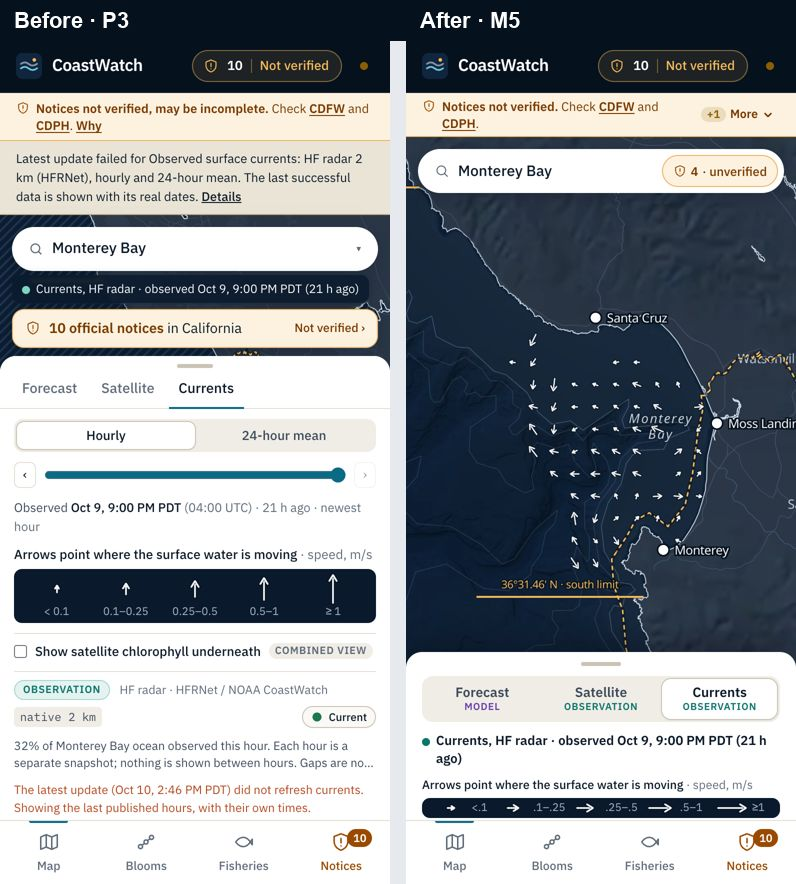
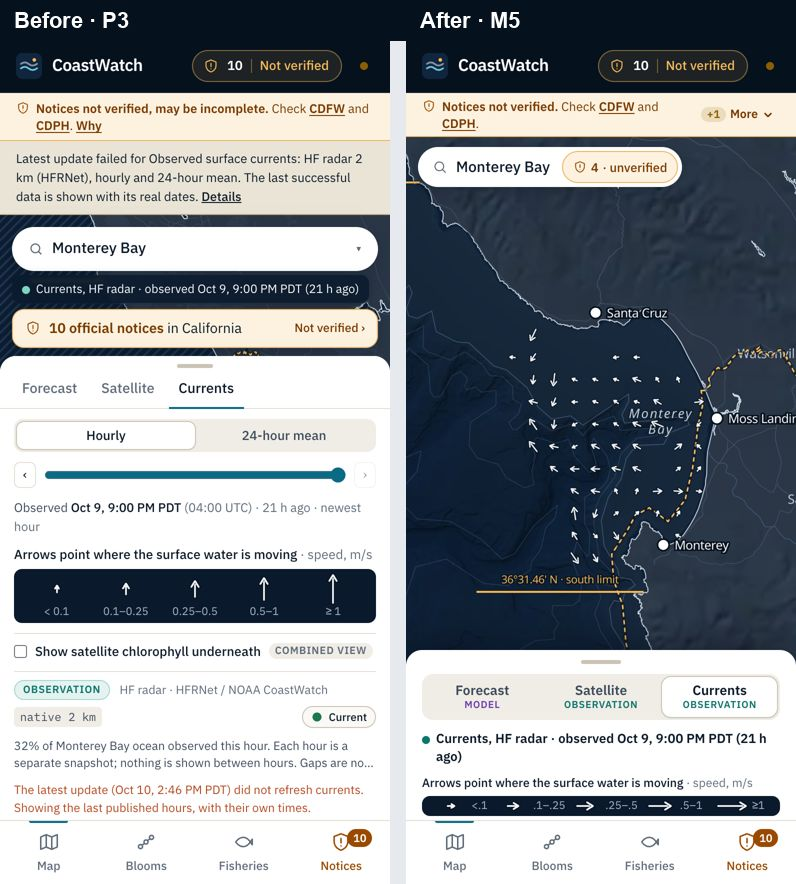
fix(web): phone map margin: the sheet peek fits its legend; content-width place button
CI (Linux fonts) measured the phone at 53.8 % of the screen showing map,
below the 55 % target that passed locally at 56.1 %. The peek is now just
tall enough for the layer tabs, what is shown and the legend's ramp and
numbers (136-184 px, growing when the stamp wraps), and the place button is
only as wide as its text. 60.1 / 57.8 / 57.8 % locally (forecast, satellite,
currents). Phone review images and the report updated.

diff --git a/coastwatch-web/src/components/LiveOceanMap.tsx b/coastwatch-web/src/components/LiveOceanMap.tsx
@@ -230,14 +230,32 @@ export function LiveOceanMap({ manifest, ports, portsError, official, officialEr
     ro.observe(el);
     return () => ro.disconnect();
   }, []);
-  // phone sheet: the peek keeps most of the map visible (≥ 55 % of the screen at 390 × 844)
+  // phone sheet: the peek is just tall enough for the layer tabs, what is shown and the whole
+  // legend (it grows when the stamp wraps), so most of the screen stays map (≥ 55 % at 390 × 844)
+  const [peekH, setPeekH] = useState(152);
+  const legendBox = useRef<HTMLDivElement | null>(null);
+  useEffect(() => {
+    const box = legendBox.current;
+    if (!box || typeof ResizeObserver === "undefined") return;
+    const fit = () => {
+      // the legend's ramp (or arrow key) and its numbers; notes below it show on expanding
+      const lg = box.querySelector("[data-peek=end]") ?? box.querySelector("[data-testid$=-legend]");
+      if (!lg) return;
+      const need = 24 + (lg.getBoundingClientRect().bottom - box.getBoundingClientRect().top) + 4; // handle + content + a hair of margin
+      setPeekH(Math.round(Math.min(184, Math.max(136, need))));
+    };
+    fit();
+    const ro = new ResizeObserver(fit);
+    ro.observe(box);
+    return () => ro.disconnect();
+  }, [wide, detailOpen, group]);
   const snaps: SnapPoint[] = detailOpen
     ? [
         { id: "peek", height: 196 },
         { id: "full", height: Math.max(260, mapH - 12) },
       ]
     : [
-        { id: "peek", height: 168 },
+        { id: "peek", height: peekH },
         { id: "half", height: Math.round(mapH * 0.58) },
         { id: "full", height: Math.max(260, mapH - 12) },
       ];
@@ -271,7 +289,7 @@ export function LiveOceanMap({ manifest, ports, portsError, official, officialEr
       const z = (q: typeof beside) => m.cameraForBounds(b, { padding: q })?.zoom ?? 0;
       return z(above) > z(beside) ? above : beside;
     }
-    return { top: 72, bottom: sheetH + 16, left: 16, right: 16 };
+    return { top: 64, bottom: sheetH + 16, left: 16, right: 16 };
   }, [detailOpen, placesOpen, regions, region, sheetH]);
 
   useEffect(() => {
@@ -517,7 +535,7 @@ export function LiveOceanMap({ manifest, ports, portsError, official, officialEr
       selectedPort={port}
       inspect={inspect}
       initialBounds={initialRegion.bounds}
-      initialPadding={wide ? { top: 64, bottom: 28, left: 660, right: 28 } : { top: 72, bottom: 184, left: 16, right: 16 }}
+      initialPadding={wide ? { top: 64, bottom: 28, left: 660, right: 28 } : { top: 64, bottom: 168, left: 16, right: 16 }}
       cellEdges={group === "forecast" && edges && edges.id === forecastLayer?.layer_id ? edges.fc : null}
       fade={fade}
       onHover={wide && canHover ? onHover : undefined}
@@ -591,11 +609,11 @@ export function LiveOceanMap({ manifest, ports, portsError, official, officialEr
           <button
             onClick={() => setNavOpen(true)}
             data-testid="place-button"
-            className="theme-paper absolute left-3 right-3 top-3 z-10 flex h-11 items-center gap-2 rounded-full bg-surface pl-4 pr-1.5 text-left text-[15px] font-medium text-ink shadow-[0_6px_20px_rgba(6,17,30,0.3)]"
+            className="theme-paper absolute left-3 top-2.5 z-10 flex h-10 max-w-[calc(100%-24px)] items-center gap-2 rounded-full bg-surface pl-3.5 pr-1 text-left text-[15px] font-medium text-ink shadow-[0_6px_20px_rgba(6,17,30,0.3)]"
           >
             <Icon name="search" className="h-4 w-4 text-ink-3" />
-            <span className="min-w-0 flex-1 truncate">{port != null ? (intel?.display_name ?? "Port") : regionLabel}</span>
-            <span data-testid="mobile-official" className="flex h-8 items-center gap-1 rounded-full border border-official-line bg-official-bg px-2.5 text-[12.5px] font-semibold text-official-ink">
+            <span className="min-w-0 truncate pr-1">{port != null ? (intel?.display_name ?? "Port") : regionLabel}</span>
+            <span data-testid="mobile-official" className="flex h-8 shrink-0 items-center gap-1 rounded-full border border-official-line bg-official-bg px-2.5 text-[12.5px] font-semibold text-official-ink">
               <Icon name="shield" className="h-3.5 w-3.5 text-official" />
               {region !== STATEWIDE.id && regionNotices != null ? regionNotices : (activeCount ?? "?")}
               <span className="sr-only"> official notices{region !== STATEWIDE.id ? ` may apply in ${regionLabel}` : " in California"},</span>
@@ -628,7 +646,7 @@ export function LiveOceanMap({ manifest, ports, portsError, official, officialEr
               </MobileSheet>
             ) : (
               <MobileSheet key="explore" snaps={snaps} snap={sheetSnap} onSnap={setSheetSnap} label="Map layers" header={null}>
-                <div data-testid="mobile-legend">
+                <div data-testid="mobile-legend" ref={legendBox}>
                   <LayerDock {...dockProps} variant="sheet" expanded={sheetSnap !== "peek"} />
                 </div>
               </MobileSheet>

diff --git a/coastwatch-web/src/components/ui/ProbabilityLegend.tsx b/coastwatch-web/src/components/ui/ProbabilityLegend.tsx
@@ -25,7 +25,7 @@ export function ProbabilityLegend({ palette, threshold, compact = false }: { pal
   return (
     <figure data-testid="probability-legend" className={compact ? "space-y-0.5" : "space-y-1"} aria-label={`Legend: ${threshold ?? "probability"}, 0 to 100 percent${stepped ? " in 10-point display steps" : ""}`}>
       {threshold && <figcaption className={`font-medium leading-snug text-ink ${compact ? "text-[12px]" : "text-[13px] max-sm:text-[12px]"}`}>{threshold}</figcaption>}
-      <div className={compact ? "flex items-center gap-3" : ""}>
+      <div className={compact ? "flex items-center gap-3" : ""} data-peek="end">
         <div className="min-w-0 flex-1">
           <div className={`${compact ? "h-2" : "h-2.5"} rounded-[3px]`} style={{ background: gradientCss(palette) }} />
           <div className="relative h-3.5 text-[11px] text-ink-3 tabular" aria-hidden>
@@ -67,7 +67,7 @@ export function ChlorophyllLegend({ palette, compact = false }: { palette: Palet
       <figcaption className={`font-medium leading-snug text-ink ${compact ? "text-[12px]" : "text-[13px]"}`}>
         Chlorophyll-a <span className="font-normal text-ink-3">mg/m³ · log scale{compact ? "" : " · algae biomass, not toxin"}</span>
       </figcaption>
-      <div className={compact ? "flex items-center gap-3" : ""}>
+      <div className={compact ? "flex items-center gap-3" : ""} data-peek="end">
         <div className="min-w-0 flex-1">
           <div className={`${compact ? "h-2" : "h-2.5"} rounded-[3px]`} style={{ background: gradientCss(palette) }} />
           <div className="relative h-3.5 text-[11px] text-ink-3 tabular" aria-hidden>
@@ -89,7 +89,7 @@ export function AgeLegend({ maxDays }: { maxDays: number }) {
   return (
     <figure data-testid="age-legend" className="space-y-1" aria-label="Legend: days since each pixel was observed">
       <figcaption className="text-[13px] font-medium text-ink">Days since each pixel was observed</figcaption>
-      <div className="flex gap-0.5">
+      <div className="flex gap-0.5" data-peek="end">
         {AGE_COLOURS.slice(0, maxDays + 1).map((c, i) => (
           <span key={c} className="flex-1 text-center text-[11px] text-ink-3 tabular">
             <span className="mb-0.5 block h-2.5 rounded-[2px]" style={{ background: c }} aria-hidden />

diff --git a/coastwatch-web/src/components/map/LayerDock.tsx b/coastwatch-web/src/components/map/LayerDock.tsx
@@ -827,7 +827,7 @@ function CurrentsLegend({ particles, detail, short = false }: { particles: boole
         {particles ? "Particles drift through this one observed field. Not a trajectory." : "Arrows point where the surface water is moving"}
         <span className="font-normal text-ink-3"> · speed, m/s</span>
       </figcaption>
-      <div className="flex items-center gap-1 rounded-lg bg-navy-900 px-2 py-0.5">
+      <div className="flex items-center gap-1 rounded-lg bg-navy-900 px-2 py-0.5" data-peek="end">
         {ARROW_LENGTHS.map((len, i) => (
           <span key={len} className="flex flex-1 items-center justify-center gap-1 text-[11px] leading-tight text-on-navy-2 tabular" data-testid="currents-legend-item">
             {particles ? (

diff --git a/docs/coastwatch/20-m5-ocean-map.md b/docs/coastwatch/20-m5-ocean-map.md
@@ -34,7 +34,7 @@ The five decisions approved after doc 19, as built:
   - 30-day nowcast history and 60-day chlorophyll collapse behind a sparkline summary.
 - **C-HARM cell edges:** drawn faintly from z8.5. Geometry only; no value is changed or smoothed.
 - **Transitions:** switching layer fades the new layer in over 220 ms. A new time step of the same layer cuts, never cross-fades. Reduced motion turns both off.
-- **Phone:** the sheet peek shows the layer tabs, what is drawn and when, and the legend. The port sheet opens at the peek so the map stays visible.
+- **Phone:** the sheet peek is just tall enough for the layer tabs, what is drawn and when, and the whole legend; it grows when the stamp wraps. The place button is only as wide as its text. The port sheet opens at the peek so the map stays visible.
 - **Tile index:** tiles that were never written are answered locally and never requested, so a 512 px tile set causes no 404s.
 - **Keyboard:** Escape closes the place list, then the inspector. The rail is a tab list driven by the arrow keys.
 
@@ -113,7 +113,7 @@ Unobstructed share of the map, measured on a 4 px grid against the boxes of ever
 | 1280 × 720, forecast | 63 % | **76.4 %** | ≥ 75 % |
 | 1280 × 720, multi-sensor | 57 % | **75.3 %** | ≥ 75 % |
 | 1280 × 720, currents | 57 % | **75.0 %** | ≥ 75 % |
-| 390 × 844, share of the screen showing map | 19 % | **56.1 %** | ≥ 55 % |
+| 390 × 844, share of the screen showing map (forecast / satellite / currents) | 19 % | **60.1 / 57.8 / 57.8 %** | ≥ 55 % |
 
 **Not weakened to reach these numbers:**
 - the unverified-notices disclosure, its agency links and the notices count with verification state;
@@ -146,6 +146,7 @@ Both passes used live data at 1440 × 900, 1280 × 720 and 390 × 844 (57 views 
 - **Animated flow.** The flow legend now says "Not a trajectory" without expanding.
 - **1280 × 720 below 75 %.** Satellite and currents were under the target. The time slider now shares a row with Hourly / 24-hour mean, display options moved under Details, and repeated lines were removed. All six desktop cases now meet the target.
 - **Empty header.** The nothing-current dock showed an empty header; hidden.
+- **Phone margin.** CI measured the phone at 53.8 %, against 56.1 % locally, because Linux fonts wrap differently. The peek now fits its content (136–184 px) and the place button is only as wide as its text, so the phone is 60.1 % locally, with margin for font differences.
 
 **Images** in [m5/review/](m5/review/):
 - 16 before/after pairs across the three viewports;
